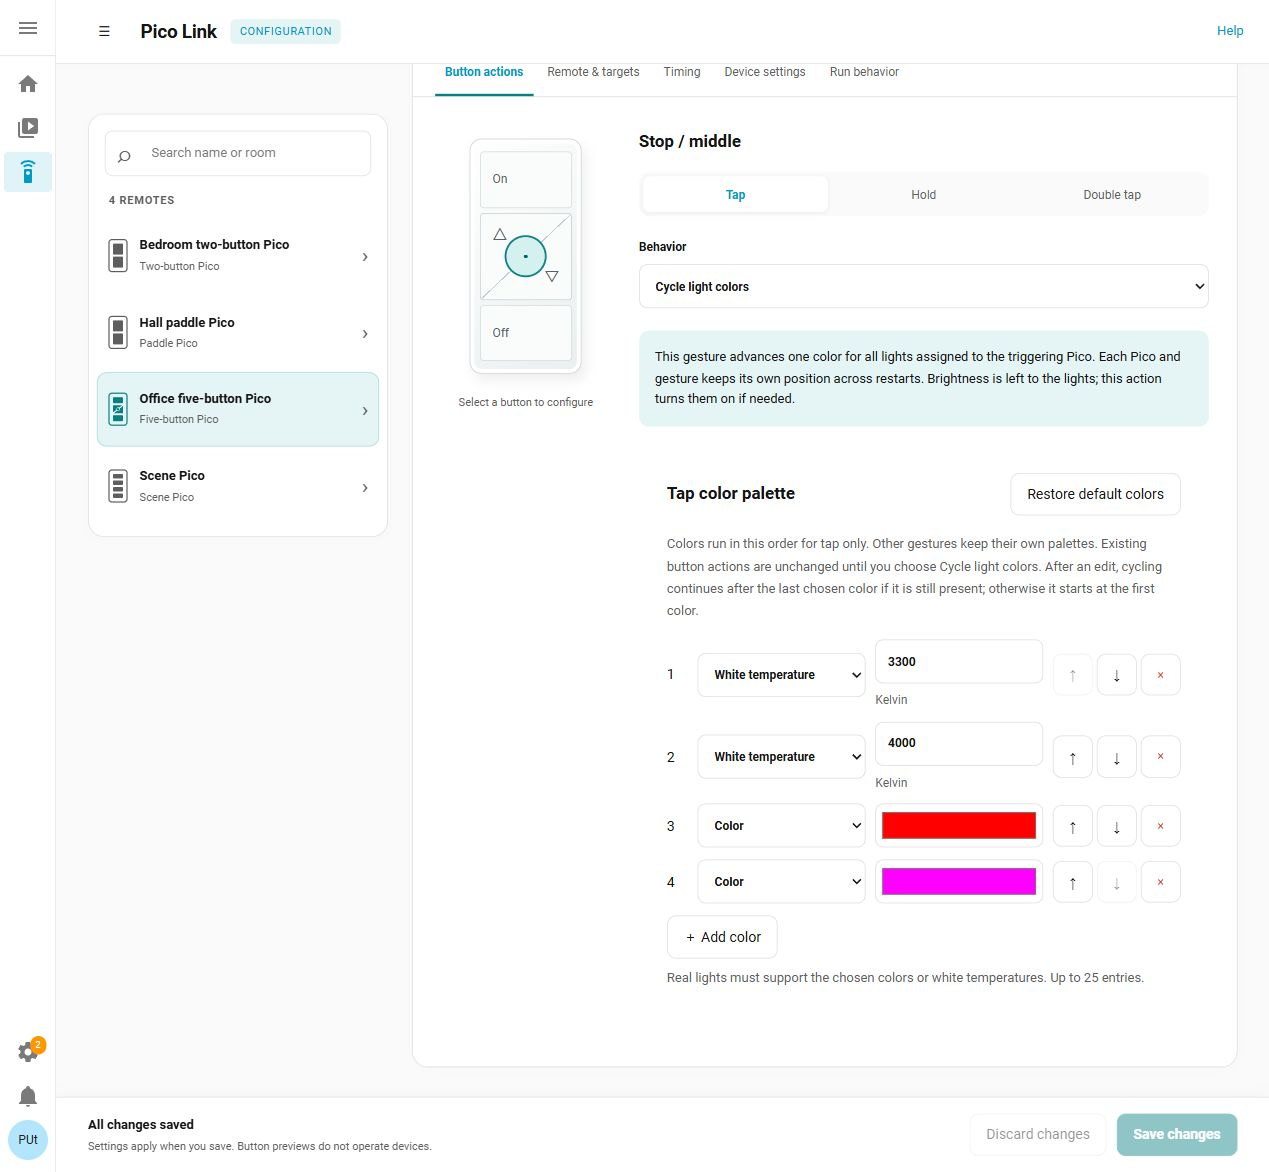
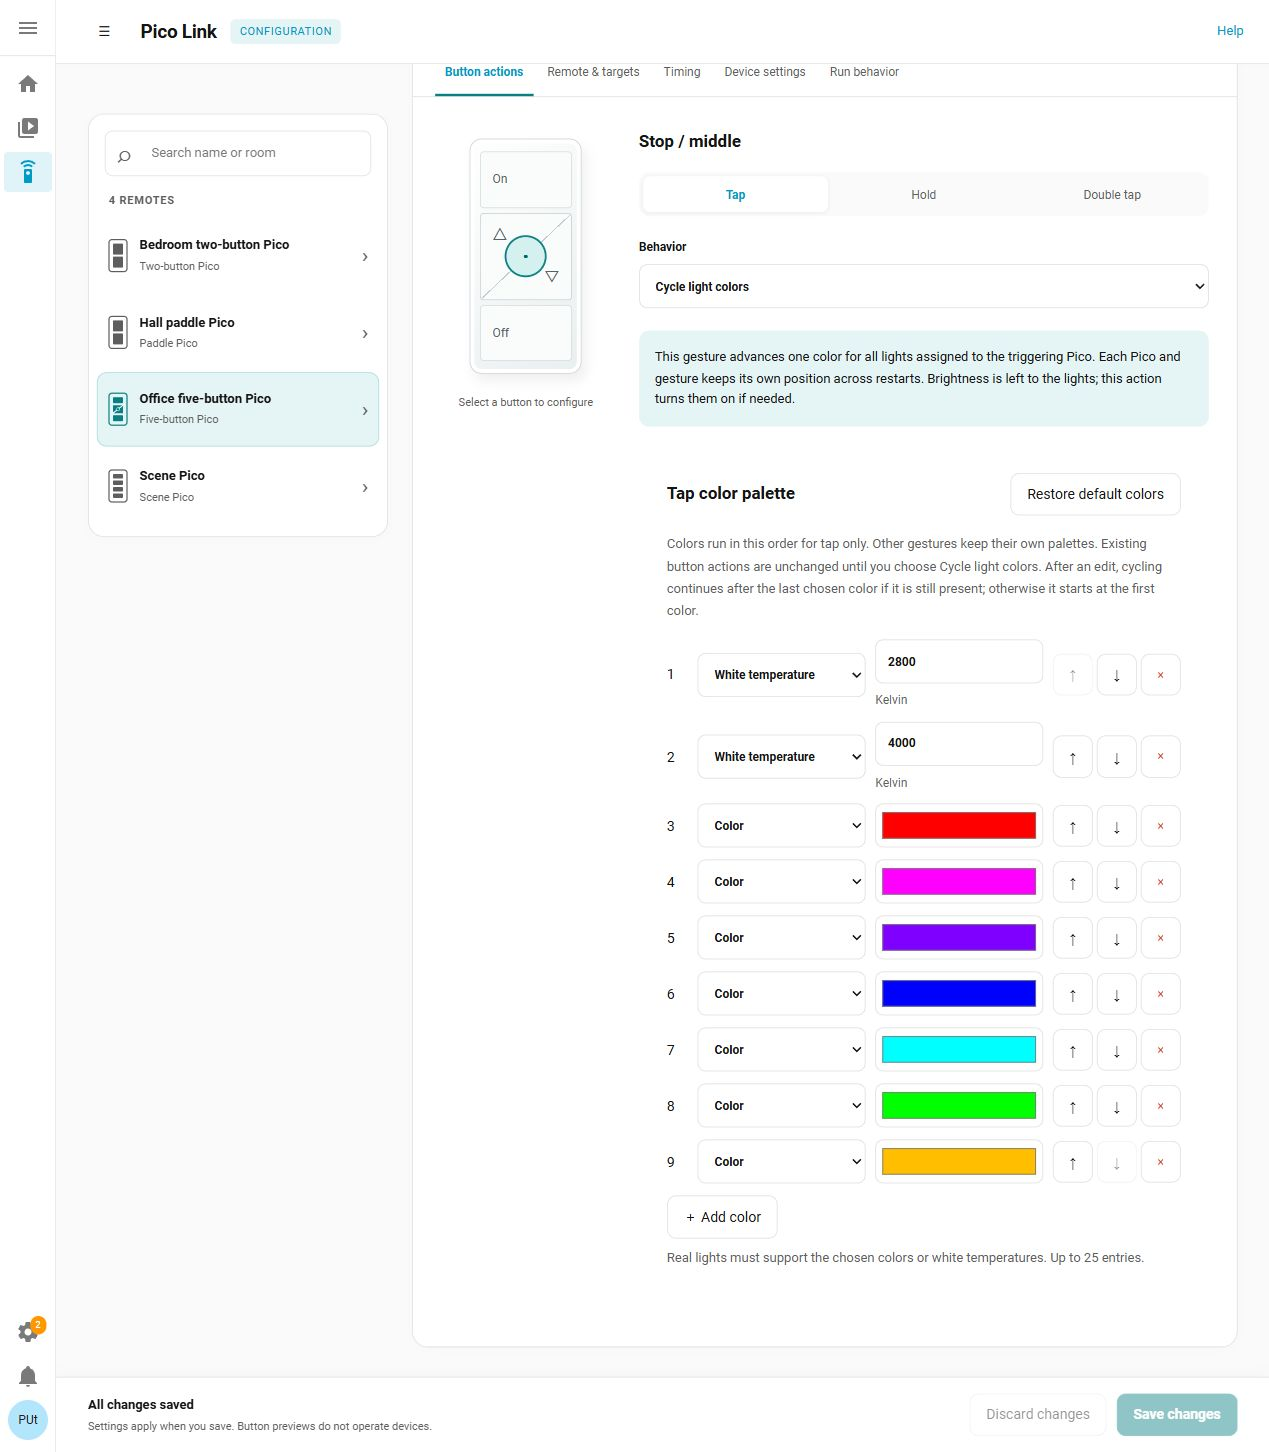
Show the built-in default palette in the setup example

diff --git a/README.md b/README.md
@@ -337,7 +337,8 @@ keep their current behavior until you explicitly select it.
 
 ![A sample Pico's Stop Tap gesture with Cycle light colors selected, editable white-temperature and color entries, and Restore default colors](https://raw.githubusercontent.com/smartqasa/pico-link/v1.0.1/docs/images/ui-color-palette.jpg)
 
-The example above uses a sample remote with a local Tap palette. Choose
+The example above uses a sample remote with the nine built-in default colors
+in its local Tap palette. Choose
 **Cycle light colors** to edit that Pico's colors directly, or **Use shared
 Stop action** to use the matching gesture's palette from **Shared defaults**.
 
